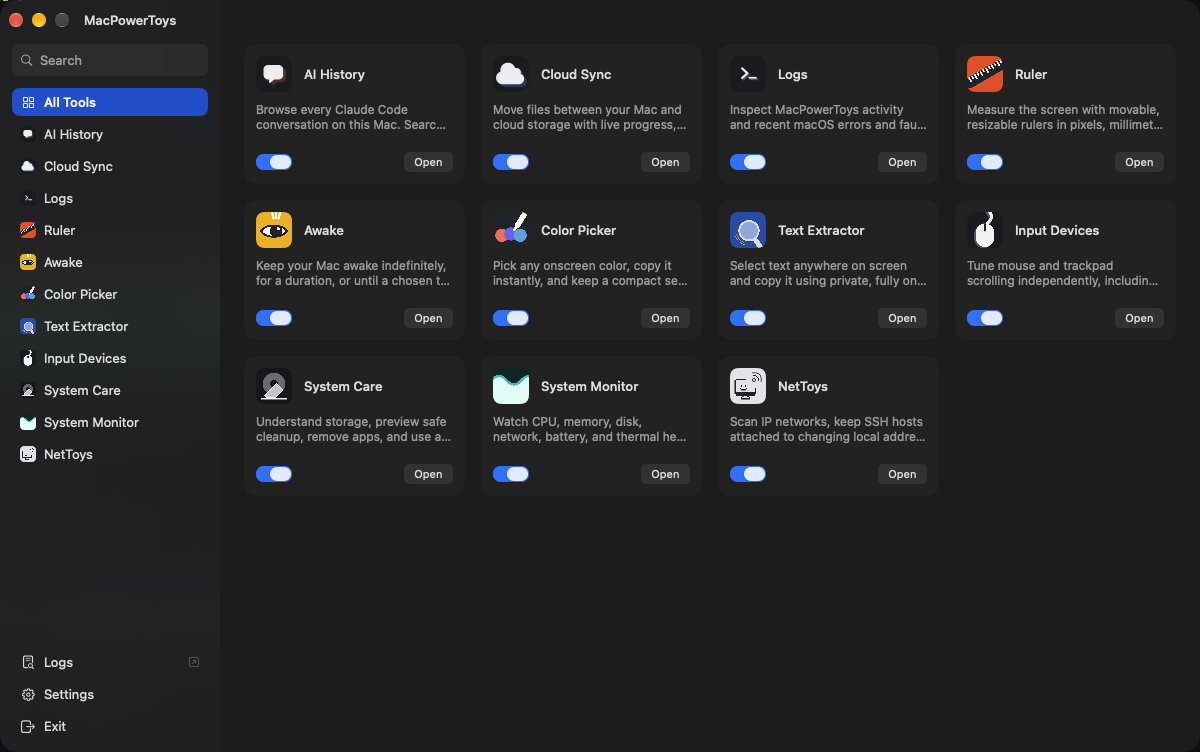
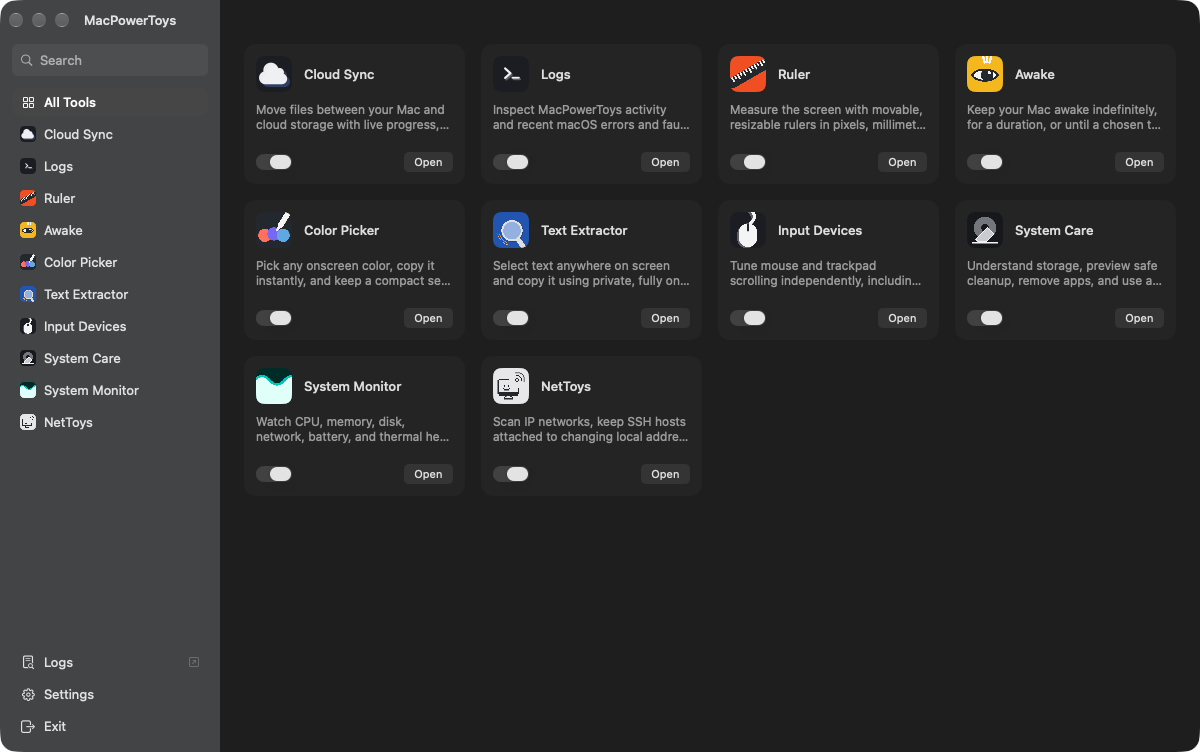
Refresh public README screenshots
Replace the stale launcher image with the current ten-tool UI and add live System Monitor, Input Devices, and privacy-safe NetToys captures. Update the root and Raycast documentation so command counts, setup steps, and product copy match the current app.

diff --git a/README.md b/README.md
@@ -6,8 +6,8 @@
 
 <p align="center">
   <strong>Small macOS utilities. One native home.</strong><br>
-  Measure, capture, stay awake, search history, and move files<br>
-  without a pile of unrelated menu bar apps.
+  Capture text, tune input, monitor your Mac, clean storage, and sync files<br>
+  without installing a pile of unrelated menu bar apps.
 </p>
 
 <p align="center">
@@ -24,7 +24,7 @@
 </p>
 
 <p align="center">
-  <img src="docs/screenshots/macpowertoys-launcher.png" width="1200" alt="MacPowerToys utility launcher on a dark desktop">
+  <img src="docs/screenshots/macpowertoys-launcher.png" width="1200" alt="MacPowerToys launcher showing all ten built-in tools">
 </p>
 
 <table>
@@ -53,29 +53,19 @@
 ## Designed for the Mac
 
 <p align="center">
-  <img src="docs/screenshots/cloud-sync.png" width="1200" alt="Cloud Sync completed transfer workspace on a dark desktop"><br>
-  <sub><b>Cloud Sync</b> · planned rclone transfers, persistent progress, and clear completion state</sub>
+  <img src="docs/screenshots/system-monitor.png" width="1080" alt="System Monitor overview with live CPU, GPU, memory, disk, network, thermal, battery, and load graphs"><br>
+  <sub><b>System Monitor</b> · CPU, GPU, memory, disk, network, thermal, battery, and load at a glance</sub>
 </p>
 
 <table>
   <tr>
     <td width="50%" valign="top">
-      <img src="docs/screenshots/ruler.png" width="100%" alt="Ruler controls on a dark desktop"><br>
-      <sub><b>Ruler</b> · multiple rulers, precise units, grouping, and per-ruler settings</sub>
+      <img src="docs/screenshots/input-devices.png" width="100%" alt="Input Devices scrolling controls with separate mouse and trackpad profiles"><br>
+      <sub><b>Input Devices</b> · separate mouse and trackpad profiles under one system-wide switch</sub>
     </td>
     <td width="50%" valign="top">
-      <img src="docs/screenshots/awake.png" width="100%" alt="Awake controls on a dark desktop"><br>
-      <sub><b>Awake</b> · precise display, time, and process controls</sub>
-    </td>
-  </tr>
-  <tr>
-    <td width="50%" valign="top">
-      <img src="docs/screenshots/color-picker.png" width="100%" alt="Color Picker history on a dark desktop"><br>
-      <sub><b>Color Picker</b> · compact, searchable color history</sub>
-    </td>
-    <td width="50%" valign="top">
-      <img src="docs/screenshots/text-extractor.png" width="100%" alt="Text Extractor controls on a dark desktop"><br>
-      <sub><b>Text Extractor</b> · on-device Apple Vision text recognition</sub>
+      <img src="docs/screenshots/nettoys-settings.png" width="100%" alt="NetToys settings showing its enable switch and network permission status"><br>
+      <sub><b>NetToys</b> · one-click disable and clear permission state</sub>
     </td>
   </tr>
 </table>
@@ -95,7 +85,7 @@ make build
 Open `powertoys.xcodeproj` and run the `powertoys` scheme, or
 use `make build ADHOC=1` on a Mac without an Apple Development
 identity. Raycast users can import the `raycast` directory;
-the extension exposes the main app and all 11 built-in tools.
+the extension exposes the launcher and all ten built-in tools.
 
 > [!NOTE]
 > Personal-team signing works on the signing Mac. Public,

diff --git a/raycast/README.md b/raycast/README.md
@@ -1,14 +1,45 @@
+<p align="center">
+  <img src="../docs/appicon.svg" width="96" height="96" alt="MacPowerToys icon">
+</p>
+
 # MacPowerToys for Raycast
 
-This companion extension exposes only MacPowerToys and its built-in tools as Raycast Root Search launchers.
+Launch MacPowerToys or any of its ten built-in tools from Raycast Root Search.
+Each command opens the matching native Mac window through the local
+`macpowertoys://` URL scheme. The extension runs no background service.
+
+<p align="center">
+  <img src="../docs/screenshots/macpowertoys-launcher.png" width="900" alt="MacPowerToys launcher with all ten built-in tools">
+</p>
+
+## Commands
+
+| Group             | Commands                                                |
+| ----------------- | ------------------------------------------------------- |
+| App               | MacPowerToys                                            |
+| Screen            | Ruler, Color Picker, Text Extractor                     |
+| System            | Awake, Input Devices, System Care, System Monitor, Logs |
+| Files and network | Cloud Sync, NetToys                                     |
 
 ## Local installation
 
-1. Install and open MacPowerToys.
-2. Run `npm ci && npm run build` in this directory.
+1. [Install MacPowerToys](https://github.com/surajmandalcell/macpowertoys/releases/latest) and open it once.
+2. Build the extension from this directory:
+
+   ```bash
+   npm ci
+   npm run build
+   ```
+
 3. Open Raycast's **Import Extension** command and select this directory.
 4. Assign aliases or hotkeys to the app launchers you use.
 
-Commands use the local `macpowertoys://` URL scheme. No cloud service is required by the extension.
+## Development
 
-Before submitting to the Raycast Store, add the owner's Raycast account username as the manifest `author`, then run `npm run lint:store` and `npm run publish`.
+```bash
+npm run dev
+npm run lint
+```
+
+Before submitting to the Raycast Store, run `npm run lint:store`, then
+`npm run publish` from the owner's Raycast account.

diff --git a/spec/main-request-list.md b/spec/main-request-list.md
@@ -81,6 +81,7 @@ the latest normal signed build.
 | Done | Replace the bolt with a flexed-arm app icon. | `0cdbdae` draws one filled flexed-arm silhouette (fist with three knuckles, forearm, bicep, upper arm) into the Icon Composer layers, the echo layer at the 52px offset, `docs/appicon.svg`, and the Raycast extension icon; the menu bar template uses an outline adapted from Lucide's biceps-flexed glyph (ISC, credited in the README) because the filled shape turned into a blob at 16pt. The Xcode build validated the icon set and the installed `0cdbdae` build carries it. | None. |
 | Done | Consolidate troubleshooting knowledge and always verify the latest normal build. | `spec/troubleshoot/troubleshoot.md` is the only index and routes current-build, UI, verification, and shared-worktree rules. |
 | Done | Preserve unexplained changes from other tasks instead of reverting whole files. | `spec/troubleshoot/shared-worktree.md` now requires inspecting history, identifying and asking the owner when possible, and preserving unknown work without explicit approval. |
+| Done | Refresh the public READMEs and screenshots after the current UI work. | `README.md` now uses fresh live captures of the ten-tool launcher, System Monitor, Input Devices, and the privacy-safe NetToys settings card. `raycast/README.md` documents the current launcher plus ten tool commands, local setup, and development checks. Every published capture was inspected at original size; the NetToys image excludes local addresses, hostnames, and Wi-Fi data. |
 | Done | Update README screenshots and publish the 1.7.0 checkpoint. | `README.md` uses the refreshed launcher and Text Extractor screenshots; annotated tag `v1.7.0` is pushed. Later work belongs to the pending next release. |
 | Done | Prevent unsigned UI-runner Gatekeeper dialogs and correct the claim that the runner was killed. | Verification rules prohibit launching unsigned UI runners and require distinguishing a runner bootstrap failure from a killed process or product failure. |
 
